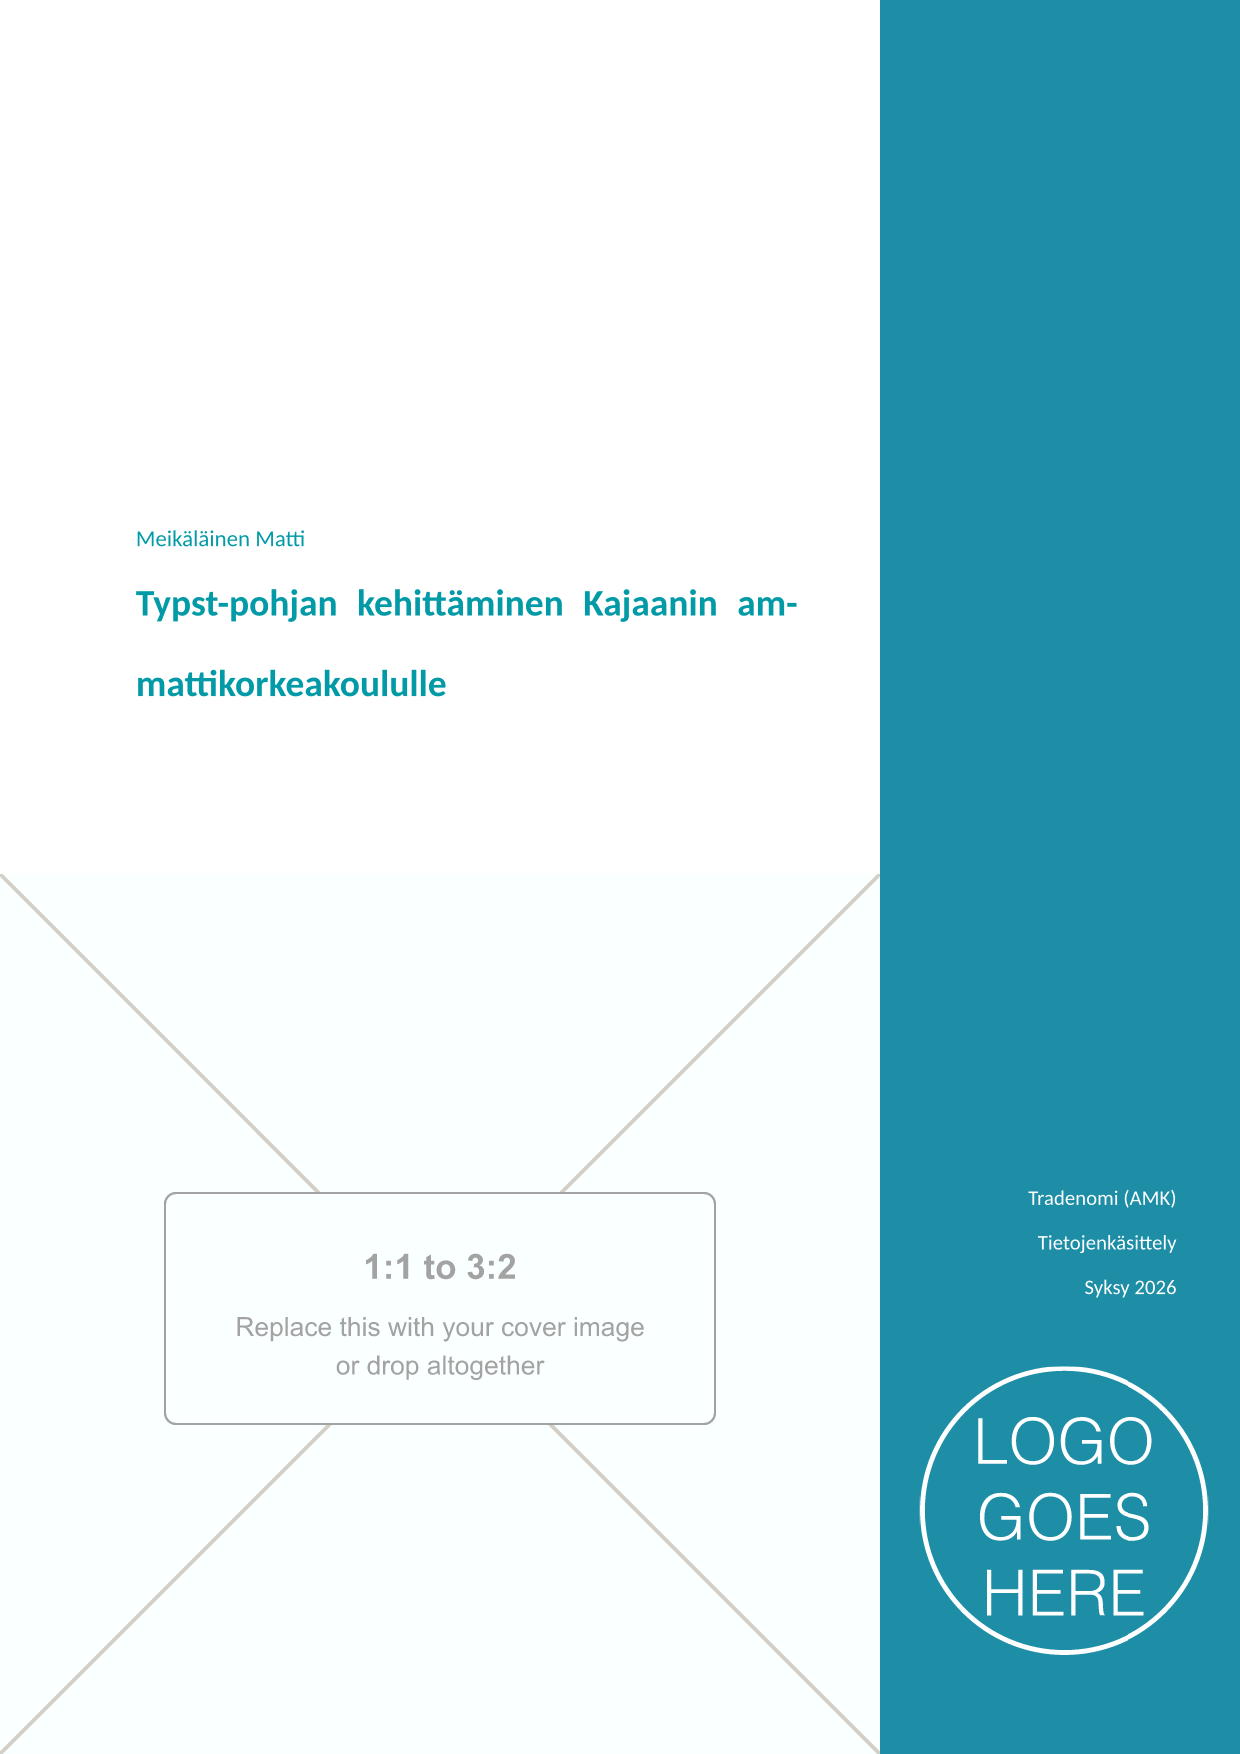
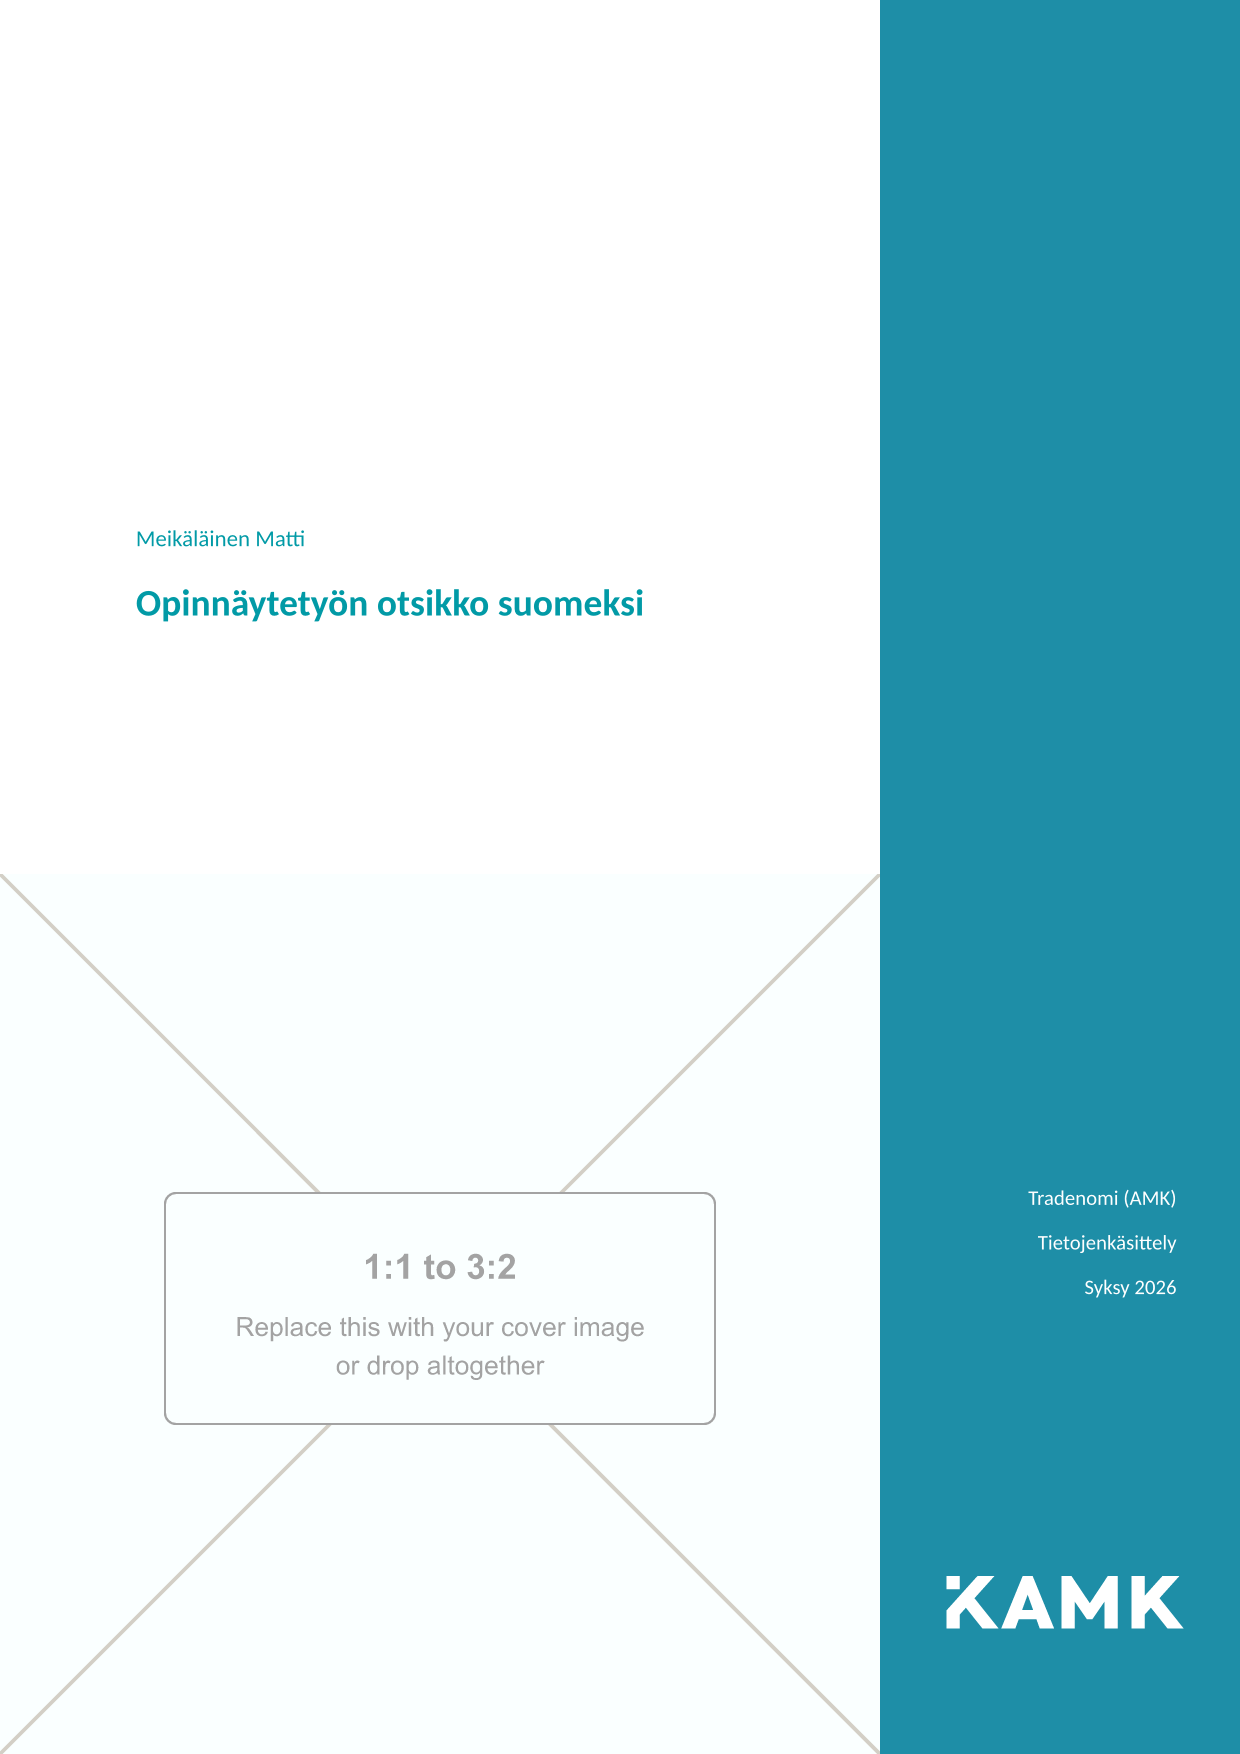
Release candidate for v0.0.1

Changed region(s): [[0.7355, 0.7697, 0.95, 0.9544], [0.0919, 0.3387, 0.6435, 0.4002], [0.95, 0.8312, 0.9806, 0.8928]]

diff --git a/AGENTS.md b/AGENTS.md
@@ -32,7 +32,7 @@ Run from the repo root. Requires `just` and `typst` CLIs; `tt` (Tytanic) for `ju
 - `tests/` — Tytanic visual test suites: `end-to-end-fi`, `references-fi`, `titlepage-fi`.
 - `docs/` — Zensical docs site (Finnish): `riippuvuudet/` (dependencies) and `syntaksi/` (syntax guides), configured by `zensical.toml` and `siteinfo.json`; built site output goes to the gitignored `site/`.
 - `scripts/` — packaging tooling in Python (PEP 723 inline metadata, no dependencies, no shebangs, invoked as `uv run scripts/<name>.py`): `typst_package_config.py` (shared configuration resolver), `install_typst_package.py` and `remove_typst_package.py` (both import the config module), plus unit tests in `scripts/tests/`.
-- `.github/workflows/` — `tests.yml` (script unit tests + Tytanic suites, archives the PNG outputs), `docs.yaml` (GitHub Pages deploy of the docs site), `release.yml` (on `v*` tags: builds the package via `just package out`, verifies and zips it as an artifact; the registry-publish job is currently commented out).
+- `.github/workflows/` — `tests.yml` (script unit tests + Tytanic suites, archives the PNG outputs), `docs.yaml` (GitHub Pages deploy of the docs site), `release.yml` (on `v*` tags: builds the package via `just package out`, verifies and zips it as an artifact and pushes it to `sourander/typst-packages`).
 - `.typstignore` — drives what the packager includes: one file (no subdirectory files), patterns match file/directory names from the beginning (`*` also matches `/`), last matching rule wins, and `!` rules re-include. `.git` and `.typstignore` are always excluded. Currently excludes e.g. `scripts`, `tests`, `docs`, `build`, `Justfile`, `AGENTS.md`.
 - Tip: the [typst-package-template](https://github.com/typst-community/typst-package-template) repo can be used as a reference for packaging layout (e.g. `typst.toml`, `CHANGELOG.md`, release workflow) when preparing the package for publication.
 - Rule of thumb: template/layout changes go in `src/`; thesis content and metadata go in `template/`.

diff --git a/CONTRIBUTE.md b/CONTRIBUTE.md
@@ -31,7 +31,7 @@ Then, you can add your test files to the `tests/my-test-name` folder. The test w
 
 This repository requires a GitHub Fine-Grained PAT (Personal Access Token). For this, a token called `typst-package-token` has been created. It has the following permissions:
 
-* Only selected repositories: `kamk-thesis-typst`
+* Only selected repositories: `sourander/typst-packages`
 * Repository permissions:
   * Contents: Read and Write
   * Metadata: Read (*note: this is GitHub default*)
